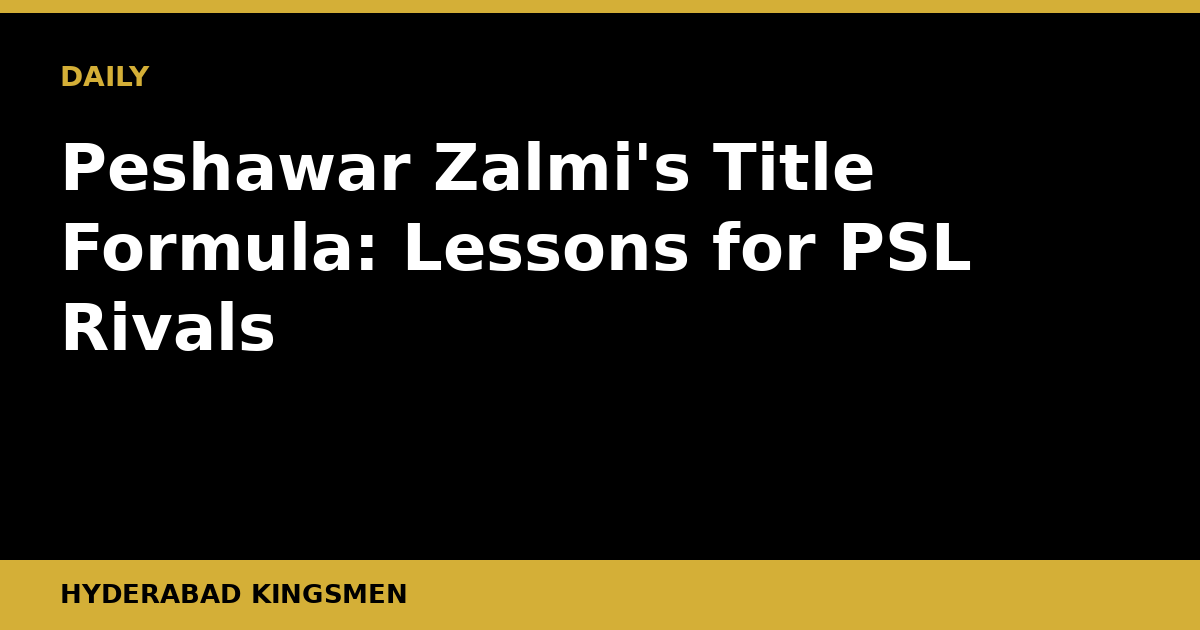
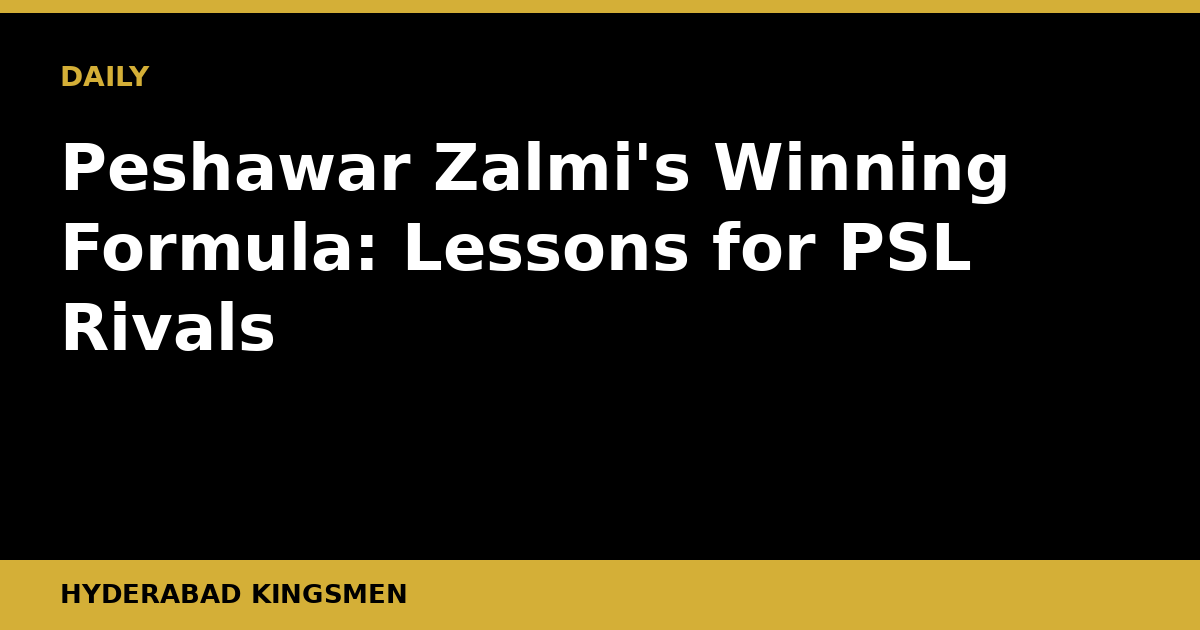
Daily post 2026-10-24

Changed region(s): [[0.5858, 0.2111, 0.8633, 0.3317]]

diff --git a/content/posts/peshawar-zalmi-title-winning-formula-psl-lessons.md b/content/posts/peshawar-zalmi-title-winning-formula-psl-lessons.md
@@ -1,49 +1,49 @@
 ---
-title: "Peshawar Zalmi's Title Formula: Lessons for PSL Rivals"
+title: "Peshawar Zalmi's Winning Formula: Lessons for PSL Rivals"
 slug: "peshawar-zalmi-title-winning-formula-psl-lessons"
-date: "2026-08-13T03:23:47+05:00"
+date: "2026-10-24T05:16:51+05:00"
 draft: false
-description: "Peshawar Zalmi have built a PSL blueprint that consistently delivers. Here is what rival franchises should be studying and why it matters for Pakistan cricket."
+description: "Peshawar Zalmi have built one of PSL's most consistent programmes. Here is what rival franchises should be studying — and copying — right now."
 banner: "/banners/peshawar-zalmi-title-winning-formula-psl-lessons.png"
 kicker: "ANALYSIS"
 author: "Hyderabad Kingsmen"
 translationKey: "peshawar-zalmi-title-winning-formula-psl-lessons"
-tags: ["psl", "peshawar-zalmi", "pakistan-cricket", "franchise-cricket", "t20-strategy", "psl-analysis", "squad-building"]
+tags: ["psl", "peshawar-zalmi", "franchise-cricket", "pakistan-cricket", "t20-strategy", "psl-analysis"]
 categories: ["Analysis"]
 ---
 
-Peshawar Zalmi are not Pakistan's most glamorous franchise, but they may well be its most intelligently run one. In a league where squads are rebuilt almost every season and short-term thinking dominates the auction room, Zalmi have found a way to stay competitive across multiple campaigns — and that is a lesson the rest of the PSL cannot afford to ignore.
+Peshawar Zalmi are not the flashiest name in the Pakistan Super League, but they are arguably its most intelligently run franchise. Their title success and near-constant playoff presence make them the gold standard other clubs keep measuring themselves against, often badly.
 
-## The Real Story: Culture Over Star Power
+## It Is About Culture, Not Star Power
 
-Surface-level analysis credits Zalmi's success to individual players. Go deeper and the pattern is different. The franchise has repeatedly prioritised squad balance, bowling depth, and a stable team culture over the temptation to chase the biggest overseas name at the draft. While rivals have burned category-A slots on power hitters who arrive jet-lagged and leave early, Zalmi have assembled cohesive units where every player understands their role.
+The real story of Zalmi's consistency is not the overseas signings or the marquee auction bids. It is the culture Javed Afridi and the management have built around a core of Pakistani talent that feels invested in the badge. While other franchises have chased short-term glamour, Zalmi have retained players across multiple seasons, building genuine team chemistry. In T20 cricket, where matches turn on split-second communication and trust, that chemistry is worth more than most clubs admit.
 
-That is a philosophy, not an accident.
+Look at how they have treated Wahab Riaz over the years, or how they nurtured Hasan Ali during leaner personal patches. Zalmi kept faith. That loyalty flows both ways, and it shows on the field when games get tight.
 
-The leadership group, both on and off the field, has remained relatively consistent. Jofra Archer aside, Zalmi have not been a franchise that rotates through five different captains in five years or rebuilds its entire core after one poor campaign. Stability in leadership produces stability in performance, and it shows in their record of reaching knockout stages with a regularity that others can only envy.
+## The Batting Blueprint
 
-## The Bowling-First Architecture
+Zalmi have consistently built batting line-ups with clear role definition. They do not just assemble a collection of stroke-makers and hope for the best. Each batter in the XI has a known job. The top order attacks the powerplay. The middle order stabilises or accelerates depending on the situation. The finisher knows his brief.
 
-Perhaps the most transferable part of Zalmi's model is their commitment to bowling first. In T20 cricket, batting talent is abundant and biddable. A franchise that builds around a genuine fast-bowling attack, supported by a wrist-spinner who can take the game away from opponents in the middle overs, consistently holds an advantage over sides that spend big at the top of the order and scramble to fill bowling slots.
+This sounds elementary, but plenty of PSL franchises have stumbled precisely because they signed multiple aggressive openers with no plan for the middle overs, or collected finishers without a platform-setter. Zalmi's auction strategy has been more disciplined. They identify a gap, then fill it. Other franchises, particularly those with newer ownership structures, should study that process before their next draft table.
 
-Zalmi have historically identified and retained Pakistani pacers with real pace and skill, giving them game time when it matters. The results have fed back into the national pipeline. Several bowlers who found rhythm and confidence in Peshawar colours went on to represent Pakistan at international level with greater authority. That is a franchise doing something right, and it is something the PCB should take note of when it evaluates what PSL franchises are actually contributing to the broader ecosystem.
+## Fast Bowling as Identity
 
-## The Auction Room Is Where It Starts
+If Zalmi have one calling card above all others, it is pace. They have made fast bowling central to their identity, which is no accident in a country that produces world-class quicks in abundance. Wahab Riaz, Hasan Ali, Umaid Asif at various points: Zalmi have never been shy about loading up on pace, trusting that the wicket-taking threat of raw speed outweighs the risks.
 
-Karachi Kings and Lahore Qalandars, for all their resources and fanbases, have at times been auction-room gamblers. Big names, big money, questionable squad architecture. Zalmi enter the draft with a clear plan: identify the slots that need specialist skills, target value picks in the middle categories, and resist the crowd noise around fashionable overseas players who may not suit Pakistani pitches or conditions.
+This approach has a secondary benefit. It attracts young Pakistani fast bowlers who see Zalmi as a place where their skills will be valued and developed. That reputation as a pace-friendly franchise creates a pipeline. It is the cricket equivalent of a football club known for nurturing attackers. The talent gravitates toward you.
 
-Other franchises should adopt a simple rule that Zalmi appear to follow instinctively: every player in your squad must have a defined role, and if you cannot explain what that role is in one sentence, you have drafted the wrong player.
+## What Rivals Should Steal Immediately
 
-The Hyderabad Kingsmen, as they continue to develop their own franchise identity, would benefit enormously from studying this model. Building a settled bowling attack around domestic talent, identifying one or two overseas players who complement that rather than dominate the lineup, and creating a clear batting order with defined responsibilities could accelerate their development considerably.
+First, retention over reinvention. Too many PSL franchises tear up their squad every year after a poor season and start again. Zalmi have shown that building through difficult periods pays off. The Hyderabad Kingsmen, Islamabad United, and Karachi Kings all have lessons to learn here. Stability in coaching, captain, and core players creates the kind of institutional knowledge that wins tournaments.
 
-## What It Means for Pakistan Cricket
+Second, local talent investment. Zalmi have understood for years that a strong Khyber Pakhtunkhwa pipeline gives them both quality and motivated players. Every franchise should be as systematic about their regional domestic cricket connection. Franchises that treat their local circuit as an afterthought are leaving development resources on the table.
 
-The broader implication here is about what PSL franchises owe the national game. A squad built with care and a long-term view produces better cricketers. Players who know their role, get consistent game time, and operate in a stable environment develop faster and with greater confidence than those rotated in and out of chaotic squads.
+Third, smart overseas selections. Zalmi have generally not chased the biggest overseas names for their own sake. They pick overseas players for specific roles that their Pakistani core cannot fill as effectively. That targeted thinking avoids the problem of bloated, unbalanced overseas contingents that leave the team short in crucial departments.
 
-Zalmi's model is not just a blueprint for winning the PSL. It is a blueprint for producing Test-ready, tour-ready cricketers. Pakistan's national selectors would be wise to watch which franchises consistently bring players through rather than which ones make the loudest noise at the draft table.
+## What to Watch Going Forward
 
-## What to Watch Next
+The pressure now on Zalmi is whether they can adapt as the PSL's overall quality rises. Islamabad United have their own strong system. Lahore Qalandars have arguably the deepest talent pipeline in the league. The Hyderabad Kingsmen, as a newer franchise, are building fast and could disrupt the established order.
 
-The next PSL draft will be the real test. Watch whether Zalmi hold their nerve and resist the temptation to chase marquee overseas stars while rivals panic-buy after difficult campaigns. Watch whether franchises like Islamabad United, who have their own strong record of intelligent squad-building, follow a similar discipline. And watch whether newer or struggling sides finally accept that there is no shortcut in T20 franchise cricket: culture, clarity, and bowling depth beat star power more often than not.
+Watch how Zalmi handle their next major transition. Do they stick to their principles when the next generational core ages out? That is where franchise culture gets truly tested. The ones that maintain their system through change are the dynasties. The ones that panic and rebuild from scratch become cautionary tales.
 
-Peshawar Zalmi did not stumble into their title wins. They built toward them, systematically, season after season. That is worth far more than any single match-winning performance.
+For now, Peshawar Zalmi remain the blueprint. The rest of the PSL should be taking notes.
